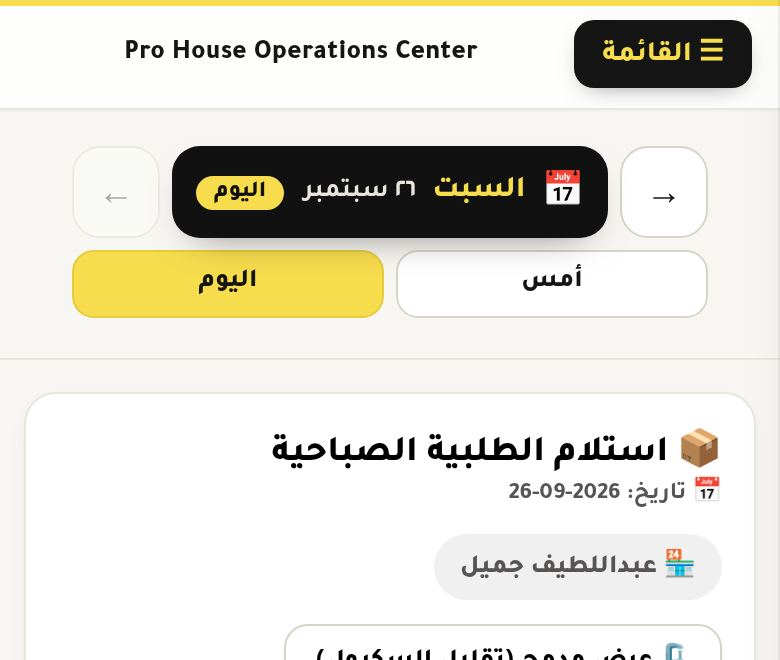
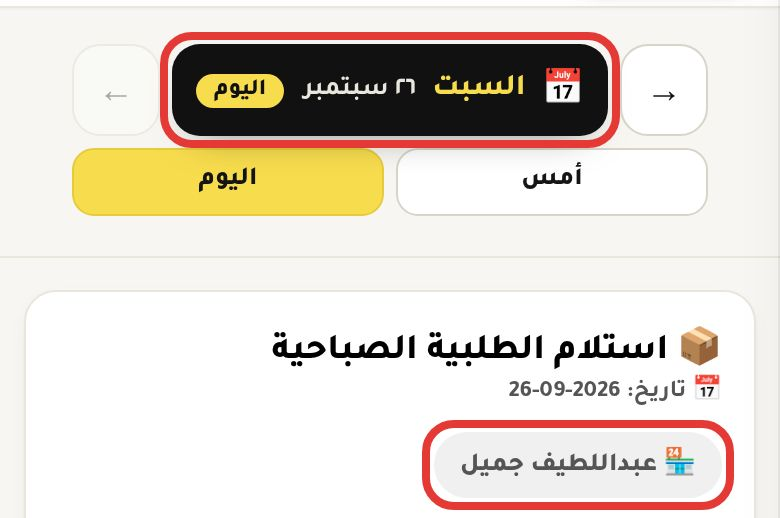
Guide basics: clean cropped screenshots with red highlights next to each tip
Claude-Session: https://claude.ai/code/session_01DZQHjttSxnt2L16qT6fNrU

Changed region(s): [[0.0, 0.0, 1.0, 0.4942], [0.3385, 0.6178, 0.9538, 1.0]]

diff --git a/index.html b/index.html
@@ -12,7 +12,7 @@
 <link rel="manifest" href="./manifest.json">
 <link rel="icon" type="image/png" sizes="192x192" href="assets/icon-192.png">
 <link rel="apple-touch-icon" sizes="180x180" href="assets/apple-touch-icon.png">
-<link rel="stylesheet" href="css/style.css?v=5.26.0">
+<link rel="stylesheet" href="css/style.css?v=5.26.1">
 <script>
 // الشغل بدون نت انلغى: منشيل الـ Service Worker القديم (sw.js) ومنمسح ملفاته لحتى الجهاز يجيب أحدث نسخة دايماً.
 // عامل الإشعارات (push-sw.js) ما بيخزّن شي، فمنخليه.
@@ -388,34 +388,34 @@ if ('caches' in window) {
 
 <div class="toast" id="toast"></div>
 
-<script src="js/demo.js?v=5.26.0"></script>
-<script src="js/config.js?v=5.26.0"></script>
-<script src="js/i18n.js?v=5.26.0"></script>
-<script src="js/supabase-engine.js?v=5.26.0"></script>
-<script src="js/shared.js?v=5.26.0"></script>
-<script src="js/pickers.js?v=5.26.0"></script>
-<script src="js/auth.js?v=5.26.0"></script>
-<script src="js/sync.js?v=5.26.0"></script>
-<script src="js/items.js?v=5.26.0"></script>
-<script src="js/camera.js?v=5.26.0"></script>
-<script src="js/branches.js?v=5.26.0"></script>
-<script src="js/receiving.js?v=5.26.0"></script>
-<script src="js/remaining.js?v=5.26.0"></script>
-<script src="js/custody.js?v=5.26.0"></script>
-<script src="js/push.js?v=5.26.0"></script>
-<script src="js/ptr.js?v=5.26.0"></script>
-<script src="js/waste.js?v=5.26.0"></script>
-<script src="js/users.js?v=5.26.0"></script>
-<script src="js/audit.js?v=5.26.0"></script>
-<script src="js/forecast.js?v=5.26.0"></script>
-<script src="js/tomorrow.js?v=5.26.0"></script>
-<script src="js/juices.js?v=5.26.0"></script>
-<script src="js/checklist.js?v=5.26.0"></script>
-<script src="js/report.js?v=5.26.0"></script>
-<script src="js/settings.js?v=5.26.0"></script>
-<script src="js/help.js?v=5.26.0"></script>
-<script src="js/dashboard.js?v=5.26.0"></script>
-<script src="js/main.js?v=5.26.0"></script>
+<script src="js/demo.js?v=5.26.1"></script>
+<script src="js/config.js?v=5.26.1"></script>
+<script src="js/i18n.js?v=5.26.1"></script>
+<script src="js/supabase-engine.js?v=5.26.1"></script>
+<script src="js/shared.js?v=5.26.1"></script>
+<script src="js/pickers.js?v=5.26.1"></script>
+<script src="js/auth.js?v=5.26.1"></script>
+<script src="js/sync.js?v=5.26.1"></script>
+<script src="js/items.js?v=5.26.1"></script>
+<script src="js/camera.js?v=5.26.1"></script>
+<script src="js/branches.js?v=5.26.1"></script>
+<script src="js/receiving.js?v=5.26.1"></script>
+<script src="js/remaining.js?v=5.26.1"></script>
+<script src="js/custody.js?v=5.26.1"></script>
+<script src="js/push.js?v=5.26.1"></script>
+<script src="js/ptr.js?v=5.26.1"></script>
+<script src="js/waste.js?v=5.26.1"></script>
+<script src="js/users.js?v=5.26.1"></script>
+<script src="js/audit.js?v=5.26.1"></script>
+<script src="js/forecast.js?v=5.26.1"></script>
+<script src="js/tomorrow.js?v=5.26.1"></script>
+<script src="js/juices.js?v=5.26.1"></script>
+<script src="js/checklist.js?v=5.26.1"></script>
+<script src="js/report.js?v=5.26.1"></script>
+<script src="js/settings.js?v=5.26.1"></script>
+<script src="js/help.js?v=5.26.1"></script>
+<script src="js/dashboard.js?v=5.26.1"></script>
+<script src="js/main.js?v=5.26.1"></script>
 <script>
   // أزرار اللغة (عربي / English / বাংলা)
   ["loginLangSlot", "menuLangSlot"].forEach(id => { const el = document.getElementById(id); if (el) el.innerHTML = phLangSwitcherHtml(); });

diff --git a/js/help.js b/js/help.js
@@ -1,11 +1,11 @@
 // ==================== طريقة الاستخدام (مختصر ومصوّر) ====================
 // خطوات قليلة وكلام قليل. كل خطوة مربوطة بشاشة وبتظهر بس للي عنده صلاحية عليها.
 const HELP_BASICS = {
-  icon: "✅", title: "قبل ما تبدأ", imgs: [["00-date", 330], ["00-add", 230]],
+  icon: "✅", title: "قبل ما تبدأ",
   lines: [
     "📅 تأكد من التاريخ فوق الشاشة — لازم يكون «اليوم». غلط؟ اضغط «اليوم».",
-    "🏪 تأكد إن الفرع صح.",
-    "➕ وصلك صنف غير موجود بالقائمة؟ انزل لآخر القسم واضغط «➕ إضافة صنف».",
+    ["🏪 تأكد إن الفرع صح.", "00-date", 259],
+    ["➕ وصلك صنف غير موجود بالقائمة؟ انزل لآخر القسم واضغط «➕ إضافة صنف».", "00-add", 86],
     "💾 بالأخير دائماً اضغط «حفظ»."
   ]
 };
@@ -39,8 +39,10 @@ function renderHelpView() {
     ${secs.map((s, i) => `
       <section class="help-sec">
         <h3><span class="help-num">${i + 1}</span><span>${s.icon} ${s.title}</span></h3>
-        ${s.lines.map(t => `<p class="help-line">${t}</p>`).join("")}
-        ${(s.imgs || [[s.img, 780]]).map(([src, h]) => `<img class="help-shot${h < 780 ? " help-shot-wide" : ""}" src="assets/guide/${src}.jpg" alt="" loading="lazy" width="390" height="${h}">`).join("")}
+        ${s.lines.map(l => Array.isArray(l)
+          ? `<p class="help-line">${l[0]}</p><img class="help-shot help-shot-wide" src="assets/guide/${l[1]}.jpg" alt="" loading="lazy" width="390" height="${l[2]}">`
+          : `<p class="help-line">${l}</p>`).join("")}
+        ${s.img ? `<img class="help-shot" src="assets/guide/${s.img}.jpg" alt="" loading="lazy" width="390" height="780">` : ""}
       </section>`).join("")}
     <p class="help-foot">كل شيء يُحفظ تلقائياً. أي مشكلة كلّم المدير.</p>`;
 }

diff --git a/css/style.css b/css/style.css
@@ -3190,6 +3190,6 @@ html[dir="ltr"] .sidebar-nav .tab-btn { white-space: normal; }
 .help-num { flex: 0 0 30px; height: 30px; border-radius: 50%; background: var(--gold, #F7DC4E); color: #111; display: inline-flex; align-items: center; justify-content: center; font-size: 15px; font-weight: 800; }
 .help-line { margin: 0 0 4px; font-size: 16px; line-height: 1.6; }
 .help-shot { display: block; width: 100%; max-width: 230px; height: auto; margin: 12px auto 0; border-radius: 20px; border: 5px solid #111; background: #f4f2ec; }
-.help-shot-wide { max-width: 300px; border-width: 3px; border-radius: 14px; }
+.help-shot-wide { max-width: 320px; margin: 6px auto 14px; border-width: 2px; border-color: #ddd8c8; border-radius: 14px; }
 .help-foot { text-align: center; font-weight: 700; margin: 6px 0 20px; }
 .home-help-link { display: block; text-align: center; margin: 12px 0 0; padding: 12px; border-radius: 14px; border: 1.5px dashed var(--line-strong, #d8d3c4); font-weight: 800; font-size: 14px; color: inherit; text-decoration: none; background: transparent; width: 100%; font-family: inherit; cursor: pointer; }

diff --git a/js/i18n.js b/js/i18n.js
@@ -31,7 +31,7 @@ if (PhLang !== "ar") {
   document.documentElement.lang = PhLang;
   document.documentElement.dir = "ltr";
   // القاموس بينحمّل بس لما تكون اللغة مش عربي
-  document.write('<script src="js/i18n-dict.js?v=5.26.0"><\/script>');
+  document.write('<script src="js/i18n-dict.js?v=5.26.1"><\/script>');
   if (PhLang === "bn") document.write('<link rel="stylesheet" href="https://fonts.googleapis.com/css2?family=Noto+Sans+Bengali:wght@400;600;700;800&display=swap">');
 }
 
